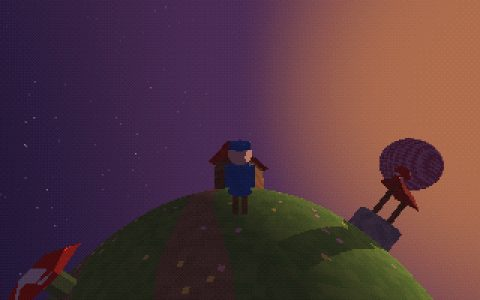
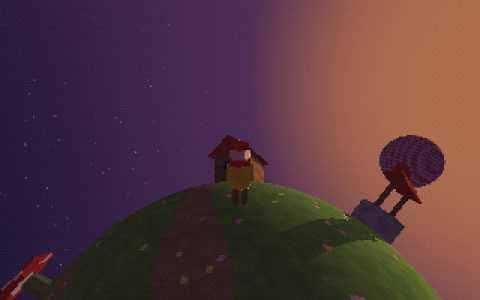
Planets: flight camera with arc trail, brighter hero, jump-only catapults, calmer poppy seeds

diff --git a/src/experiments/planets/game.ts b/src/experiments/planets/game.ts
@@ -42,12 +42,14 @@ export const torHome = (() => { const h = worldToTor(sub(P_HOME, P_TOR)); return
 
 export interface Pad { p: V3; up: V3; to: V3; name: string }
 const pad = (s: { p: V3; up: V3 }, to: { p: V3 }, name: string): Pad => ({ p: s.p, up: s.up, to: to.p, name })
+// домашние грибы — на ~20° в сторону от прямой «центр → цель»: прямые тропы к маяку идут мимо
+const aside = (d: V3): V3 => { const n = norm(d); return add(n, mul(norm(cross(n, [0, 1, 0])), 0.35)) }
 const HOME_LAND = homeAt([0.3, 0.85, -0.05]) // подальше от грибов, домика и колодца
 const TOR_LAND = torAt(torHome.u + 0.5, torHome.v)
 export const PADS: Pad[] = [
-  pad(homeAt(sub(P_TOR, P_HOME)), TOR_LAND, 'на бублик'),
-  pad(homeAt(sub(P_PUMP, P_HOME)), pumpAt([-0.85, 0.5, 0.0]), 'на тыкву'),
-  pad(homeAt(sub(P_MOON, P_HOME)), moonAt([0.6, -0.2, 0.8]), 'на клубок'), // приземление в стороне от обратного гриба
+  pad(homeAt(aside(sub(P_TOR, P_HOME))), TOR_LAND, 'на бублик'),
+  pad(homeAt(aside(sub(P_PUMP, P_HOME))), pumpAt([-0.85, 0.5, 0.0]), 'на тыкву'),
+  pad(homeAt(aside(sub(P_MOON, P_HOME))), moonAt([0.6, -0.2, 0.8]), 'на клубок'), // приземление в стороне от обратного гриба
   pad(torAt(torHome.u - 0.15, torHome.v), HOME_LAND, 'домой'),
   pad(pumpAt(sub(P_HOME, P_PUMP)), HOME_LAND, 'домой'),
   pad(moonAt(sub(P_HOME, P_MOON)), HOME_LAND, 'домой'),
@@ -64,7 +66,14 @@ export const SPEED = 3.0, JUMP = 5.5, LAUNCH = 9, FLY_G = 9, RAD = 0.3
 export interface Item { p: V3; up: V3; state: 0 | 1 | 2 } // 0 лежит, 1 в руках, 2 в маяке
 export interface Game {
   pos: V3; vel: V3; up: V3; fwd: V3; camPitch: number; cam: V3
-  grounded: boolean; flight: { to: V3; t: number } | null
+  grounded: boolean; flight: { to: V3; t: number; from: V3; up: V3 } | null
+  jumpT: number // с с последнего прыжка: гриб подбрасывает только тех, кто на него запрыгнул
+  camFly: number // 0..1 — камера полёта (отъезд вбок от дуги)
+  camDist: number // дистанция камеры (в портрете больше — видна кривизна)
+  camLift: number // добавка к наклону камеры (в портрете выше — шар виден сверху)
+  trail: V3[] // след полёта (точки раз в 4 кадра)
+  look: V3 // куда смотрит камера
+  lastFlight?: { to: V3; t: number; from: V3; up: V3 } // для плавного возврата камеры после посадки
   carry: number; items: Item[]; lit: number; done: boolean; flash: number
   walk: number; t: number; frames: number
   input: { fwd: number; side: number; dyaw: number; dpitch: number; jump: boolean }
@@ -78,7 +87,7 @@ export function newGame(): Game {
   const fwd = norm(sub(toHouse, mul(up, dot(toHouse, up)))) // лицом к домику
   return {
     pos: [...SPAWN.p], vel: [0, 0, 0], up: [...up], fwd, camPitch: 0.28, cam: add(SPAWN.p, mul(up, 3)),
-    grounded: true, flight: null, carry: -1,
+    grounded: true, flight: null, carry: -1, jumpT: 9, camFly: 0, camDist: 5, camLift: 0, trail: [], look: add(SPAWN.p, mul(up, 1.1)),
     items: ITEM_SPOTS.map((s) => ({ p: [...s.p], up: [...s.up], state: 0 })),
     lit: 0, done: false, flash: 0, walk: 0, t: 0, frames: 0,
     input: { fwd: 0, side: 0, dyaw: 0, dpitch: 0, jump: false },
@@ -91,8 +100,9 @@ const rotAround = (v: V3, k: V3, a: number): V3 => add(add(mul(v, Math.cos(a)), 
 
 export const rightOf = (g: Game) => norm(cross(g.up, g.fwd))
 export const camWant = (g: Game): V3 => {
-  const back = add(mul(g.fwd, -Math.cos(g.camPitch)), mul(g.up, Math.sin(g.camPitch)))
-  return add(add(g.pos, mul(g.up, 1.4)), mul(back, 5.0))
+  const pt = Math.min(1.3, g.camPitch + g.camLift)
+  const back = add(mul(g.fwd, -Math.cos(pt)), mul(g.up, Math.sin(pt)))
+  return add(add(g.pos, mul(g.up, 1.2)), mul(back, g.camDist))
 }
 
 // probe: 8×4 float из probe.frag
@@ -128,7 +138,7 @@ export function step(g: Game, probe: Float32Array | null, dt = DT) {
   }
   // страховка: слишком далеко от всех планет — мягкий возврат домой
   if (pd > 40 && !g.flight) {
-    g.flight = { to: [...HOME_LAND.p], t: 0 }
+    g.flight = { to: [...HOME_LAND.p], t: 0, from: [...g.pos], up: [...g.up] }
     g.vel = mul(g.vel, 0.3)
     g.rescues++
   }
@@ -141,10 +151,11 @@ export function step(g: Game, probe: Float32Array | null, dt = DT) {
     const want = add(mul(g.fwd, g.input.fwd * SPEED), mul(rt, g.input.side * SPEED))
     vt = add(vt, mul(sub(want, vt), Math.min(1, dt * 12)))
     g.vel = add(vt, mul(g.up, Math.max(0, vn)))
-    if (g.input.jump) g.vel = add(g.vel, mul(g.up, JUMP))
+    if (g.input.jump) (g.vel = add(g.vel, mul(g.up, JUMP))), (g.jumpT = 0)
     g.walk += len(vt) * dt * 4.5
   }
   g.input.jump = false
+  g.jumpT += dt
 
   // ---- столкновения: выталкивание сфер тела по градиенту, гашение скорости внутрь ----
   for (const s of sph) {
@@ -163,17 +174,41 @@ export function step(g: Game, probe: Float32Array | null, dt = DT) {
   // стоим — прижать ноги к земле (на выпуклой планете шаг по касательной чуть отрывает)
   if (g.grounded && dot(g.vel, g.up) <= 0.01) g.pos = sub(g.pos, mul(g.up, Math.max(0, sph[0].d - RAD) * 0.5))
 
-  // ---- камера: не сквозь стены (луч зонда) ----
-  const want = camWant(g), head = add(g.pos, mul(g.up, 1.4))
+  // ---- камера: не сквозь стены (луч зонда); в полёте — отъезд вбок от дуги, видны обе планеты ----
+  const want = camWant(g), head = add(g.pos, mul(g.up, 1.2))
   const dir = sub(want, head), L = len(dir)
-  g.cam = add(head, mul(norm(dir), Math.max(0.8, Math.min(L, camT - 0.3))))
+  let cam = add(head, mul(norm(dir), Math.max(0.8, Math.min(L, camT - 0.3))))
+  let look = add(add(g.pos, mul(g.up, 1.1)), mul(g.fwd, 0.5))
+  g.camFly = g.flight ? Math.min(1, g.camFly + dt * 1.2) : Math.max(0, g.camFly - dt * 0.8)
+  if (g.flight) g.lastFlight = { ...g.flight }
+  const fl = g.lastFlight
+  if (g.camFly > 0 && fl) {
+    const span = sub(fl.to, fl.from), D = len(span)
+    const mid = add(fl.from, mul(span, 0.5))
+    let side = cross(span, fl.up)
+    if (len(side) < 1e-3) side = cross(span, [0, 1, 0])
+    side = norm(side)
+    // сторона, с которой камера уже ближе — без перескока через дугу
+    if (dot(side, sub(g.cam, mid)) < 0) side = mul(side, -1)
+    const fly = add(add(mid, mul(side, D * 0.95)), mul(fl.up, D * 0.35))
+    const w = g.camFly * g.camFly * (3 - 2 * g.camFly)
+    cam = add(mul(cam, 1 - w), mul(fly, w))
+    look = add(mul(look, 1 - w), mul(add(mul(g.pos, 0.5), mul(mid, 0.5)), w))
+  }
+  g.cam = cam
+  g.look = look
+  // след полёта
+  if (g.flight && g.frames % 4 === 0) (g.trail.push([...g.pos]), g.trail.length > 24 && g.trail.shift())
+  if (!g.flight && g.camFly === 0) g.trail.length = 0
 
   // ---- катапульты ----
   if (g.grounded)
     for (const p of PADS)
-      if (len(sub(g.pos, p.p)) < 1.2) { // шляпка (r 0.55) не подпускает ближе ~0.85
+      // срабатывает, только если запрыгнуть на шляпку: случайно не наступишь, и посадка после перелёта
+      // на гриб не отправляет обратно
+      if (g.jumpT < 1.0 && len(sub(g.pos, add(p.p, mul(p.up, 0.75)))) < 0.65) {
         g.vel = mul(p.up, LAUNCH)
-        g.flight = { to: [...p.to], t: 0 }
+        g.flight = { to: [...p.to], t: 0, from: [...g.pos], up: [...p.up] }
         g.pos = add(g.pos, mul(p.up, 0.3))
         g.launches++
         break

diff --git a/src/experiments/planets/index.ts b/src/experiments/planets/index.ts
@@ -2,7 +2,7 @@ import { hmrState } from '../../core/hmr.ts'
 import { defineExperiment, type ExperimentContext, type ParamValue } from '../../core/types.ts'
 import { createFpsControls } from '../../fps/controls.ts'
 import { createRetro } from '../../retro/retro.ts'
-import { BEACON, ITEM_SPOTS, PADS, V, camWant, newGame, pumpAt, step, torAt, torHome, worldUniforms, type Game } from './game.ts'
+import { BEACON, ITEM_SPOTS, PADS, camWant, newGame, pumpAt, step, torAt, torHome, worldUniforms, type Game } from './game.ts'
 import probe from './probe.frag'
 import scene from './scene.frag'
 
@@ -39,12 +39,17 @@ function sceneUniforms(ctx: ExperimentContext): Record<string, ParamValue> {
     step(g, ctx.read('probe'), Math.min(ctx.dt, 1 / 30))
     st.sync()
   }
-  const target = V.add(V.add(g.pos, V.mul(g.up, 1.3)), V.mul(g.fwd, 0.6))
-  return { ...worldUniforms(g), uEye: g.cam, uTarget: target, uCamUp: g.up, uFlash: g.flash }
+  const cv = document.querySelector<HTMLCanvasElement>('#gl')
+  const aspect = cv ? cv.clientWidth / Math.max(1, cv.clientHeight) : 1.6
+  g.camDist = aspect < 1 ? 9 : 5 // в портрете дальше и выше: иначе кривизна не читается
+  g.camLift = aspect < 1 ? 0.3 : 0
+  const trail = new Float32Array(96)
+  g.trail.forEach((p, i) => trail.set([...p, (i + 1) / g.trail.length], i * 4))
+  return { ...worldUniforms(g), uEye: g.cam, uTarget: g.look, uCamUp: g.up, uFlash: g.flash, uTrail: trail as unknown as number[] }
 }
 
 const HINTS = {
-  start: 'Маяк погас. Найди три свечи на соседних планетах — мухоморы подбрасывают.',
+  start: 'Маяк погас. Найди три свечи на соседних планетах. Запрыгни на мухомор — он подбросит.',
   carry: 'Неси свечу к маяку.',
   done: 'Маяк горит. Видишь — окна зажглись.',
 }

diff --git a/CLAUDE.md b/CLAUDE.md
@@ -176,7 +176,12 @@ Tiny planets (`src/experiments/planets`): от третьего лица по к
 в полёте тянет к точке приземления на цели, у поверхности — обычная гравитация. Точки приземления держать в
 стороне от обратных грибов (иначе сразу перебрасывает назад) и тропы — вне построек. Страховка: дальше 40 м от
 планет — мягкий полёт домой. Цель: 3 свечи (внутренняя сторона бублика, дальняя сторона тыквы, клубок) → маяк.
-Сценарий (`walkTo` по касательной + обход «нет прогресса → вбок») и фазз — в отчёте; данные точек — `__gpState.planets.data`.
+Гриб срабатывает, только если на шляпку запрыгнули (`jumpT` < 1 с): случайно не наступишь, и посадка после
+перелёта на гриб не отправляет обратно; домашние грибы сдвинуты от прямых троп (`aside`). В полёте камера
+отъезжает вбок от дуги «старт → цель» (обе планеты в кадре, `camFly`), след — светящиеся точки (`uTrail`); после
+посадки камера плавно возвращается. В портрете камера дальше и выше (`camDist`/`camLift` по аспекту).
+Сценарий (`walkTo` по касательной + обход «нет прогресса → вбок», `hop` — запрыгнуть на гриб) и фазз — в отчёте;
+данные точек — `__gpState.planets.data`.
 `src/fps/controls.ts` получил `keys` (код клавиши → действие, напр. `{ Space: 'jump' }`; код — в `ownKeys`).
 
 ## Шейдеры
